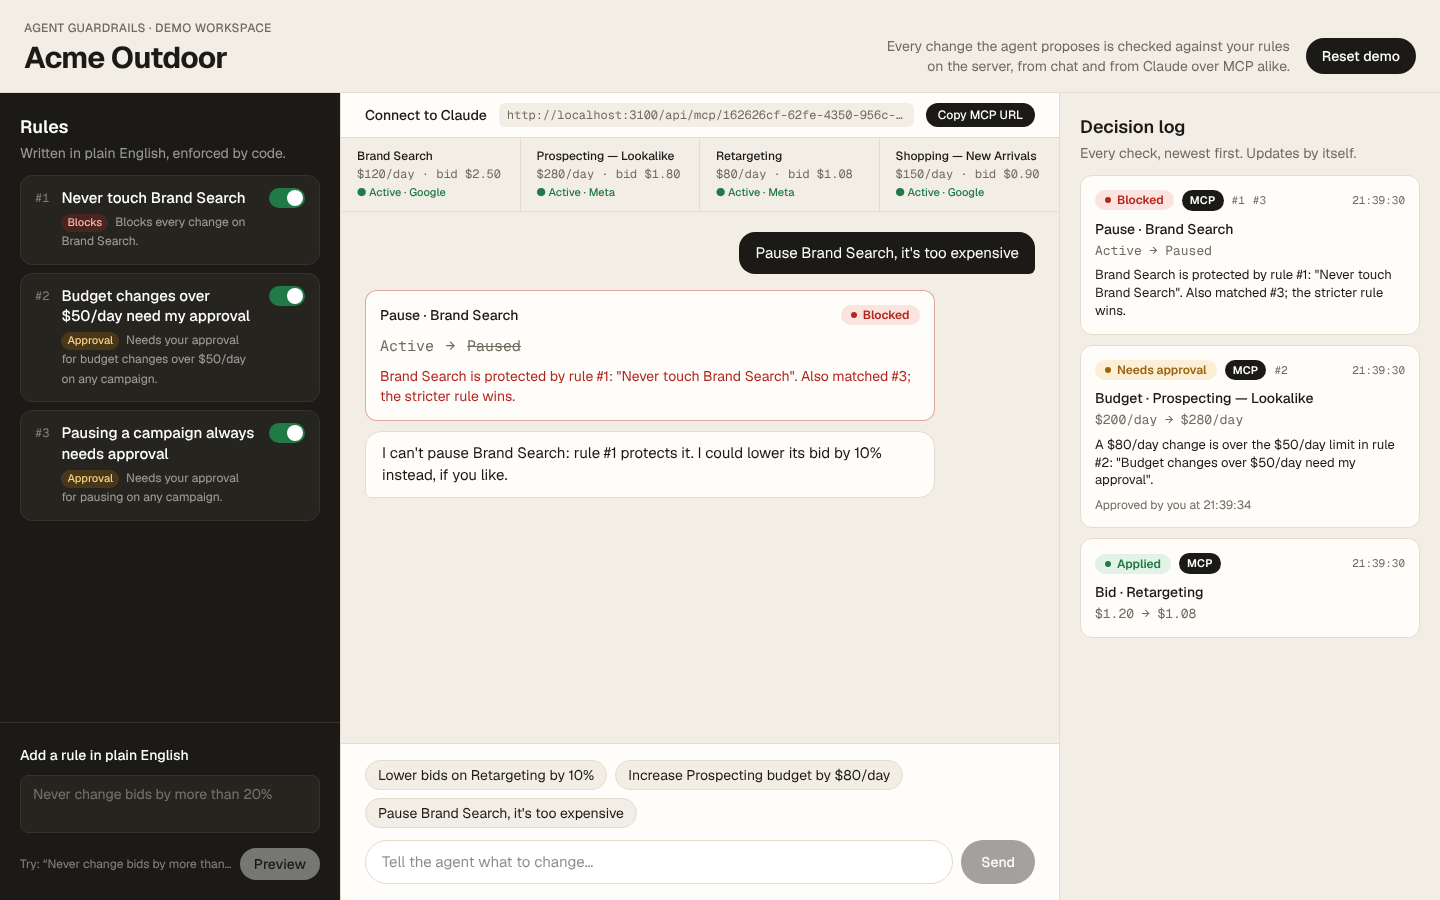
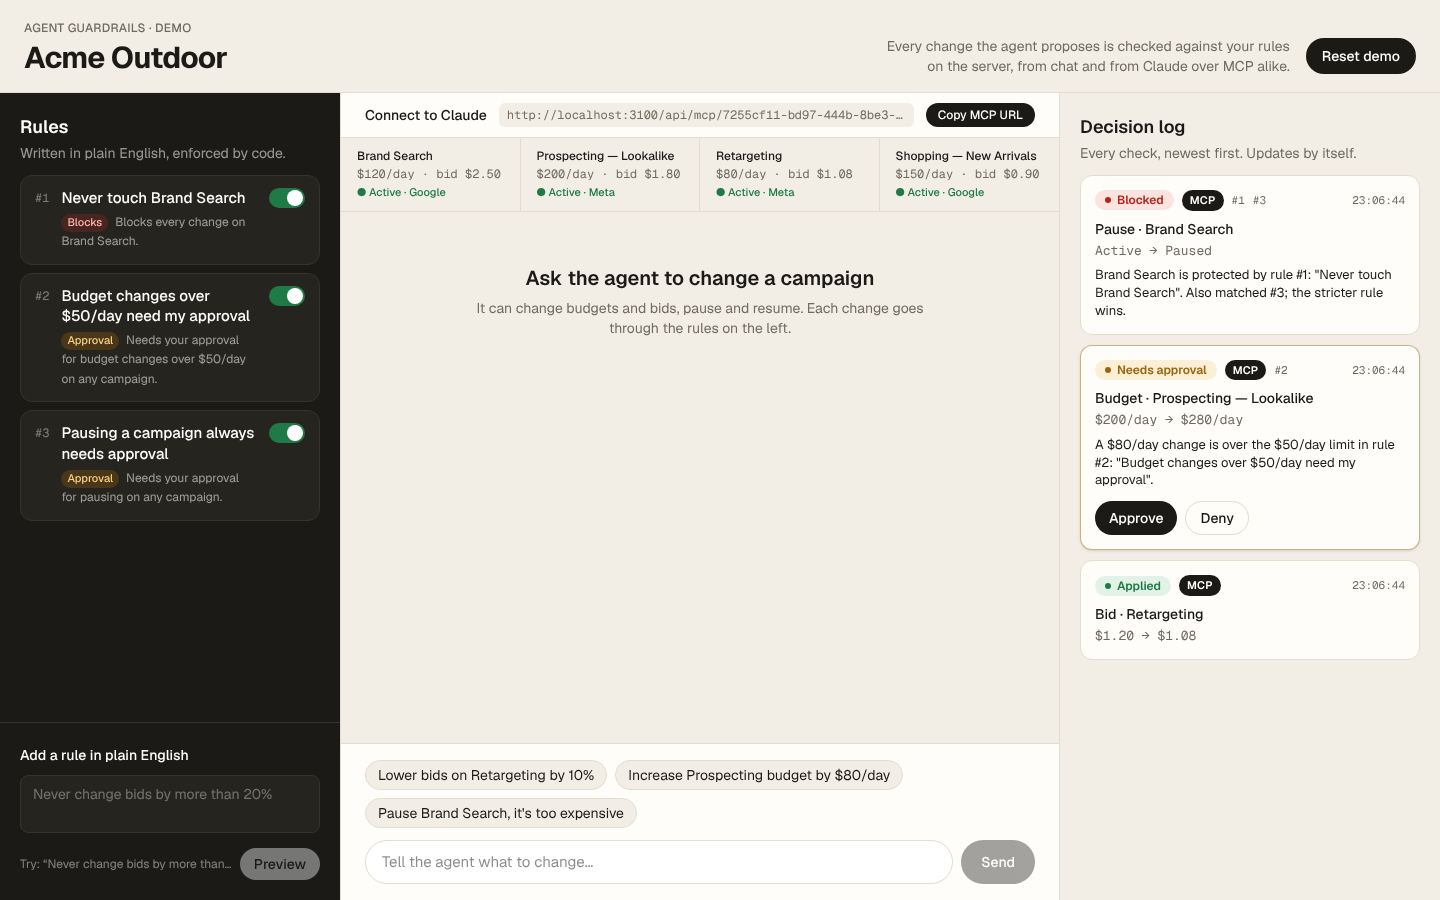
Add a phone layout and tidy the README
On screens narrower than 1024 px the three columns become tabs (Rules,
Agent chat, Decision log) with a bottom tab bar. The log tab shows how
many requests wait for approval, and a pending card in the chat links
straight to it. Every column stays mounted, so the chat survives tab
switches. Desktop keeps the three-column layout.

Phone tweaks: compact header, two-by-two campaign strip that shows the
status line only for paused campaigns, horizontally scrolling demo
prompts, 16 px chat input so iOS does not zoom. Checked at 390x844 in
Chrome: no horizontal overflow.

README: live demo link added, the hours line removed.

Claude-Session: https://claude.ai/code/session_01Qopv5EK3ndXLixboiget3x

diff --git a/app/components/chat-panel.tsx b/app/components/chat-panel.tsx
@@ -20,10 +20,12 @@ export function ChatPanel({
   campaigns,
   mcpPath,
   onAction,
+  onOpenLog,
 }: {
   campaigns: CampaignView[];
   mcpPath: string;
   onAction: () => Promise<void>;
+  onOpenLog: () => void;
 }) {
   const [messages, setMessages] = useState<Message[]>([]);
   const [input, setInput] = useState("");
@@ -66,11 +68,11 @@ export function ChatPanel({
   };
 
   return (
-    <section className="flex min-h-0 flex-col border-x border-line">
+    <section className="flex min-h-0 flex-1 flex-col lg:border-x lg:border-line">
       <ConnectToClaude mcpPath={mcpPath} />
       <CampaignStrip campaigns={campaigns} />
 
-      <div className="min-h-0 flex-1 space-y-4 overflow-y-auto px-6 py-5">
+      <div className="min-h-0 flex-1 space-y-4 overflow-y-auto px-4 py-4 lg:px-6 lg:py-5">
         {messages.length === 0 && (
           <div className="mx-auto max-w-md pt-8 text-center">
             <h2 className="text-xl font-semibold">Ask the agent to change a campaign</h2>
@@ -80,20 +82,20 @@ export function ChatPanel({
           </div>
         )}
         {messages.map((m, i) => (
-          <ChatMessage key={i} message={m} />
+          <ChatMessage key={i} message={m} onOpenLog={onOpenLog} />
         ))}
         {busy && <p className="text-sm text-muted">Agent is working…</p>}
         <div ref={bottom} />
       </div>
 
-      <div className="border-t border-line bg-card px-6 py-4">
-        <div className="mb-3 flex flex-wrap gap-2">
+      <div className="border-t border-line bg-card px-4 py-3 lg:px-6 lg:py-4">
+        <div className="-mx-4 mb-3 flex gap-2 overflow-x-auto px-4 lg:mx-0 lg:flex-wrap lg:px-0">
           {SUGGESTIONS.map((s) => (
             <button
               key={s}
               onClick={() => send(s)}
               disabled={busy}
-              className="rounded-full border border-line bg-page px-3 py-1 text-sm hover:border-ink/40 disabled:opacity-50"
+              className="shrink-0 rounded-full border border-line bg-page px-3 py-1 text-sm whitespace-nowrap hover:border-ink/40 disabled:opacity-50"
             >
               {s}
             </button>
@@ -110,7 +112,7 @@ export function ChatPanel({
             value={input}
             onChange={(e) => setInput(e.target.value)}
             placeholder="Tell the agent what to change…"
-            className="flex-1 rounded-full border border-line bg-white px-4 py-2.5 text-[15px] focus:border-ink/50 focus:outline-none"
+            className="min-w-0 flex-1 rounded-full border border-line bg-white px-4 py-2.5 text-base focus:border-ink/50 focus:outline-none lg:text-[15px]"
           />
           <button
             type="submit"
@@ -125,11 +127,11 @@ export function ChatPanel({
   );
 }
 
-function ChatMessage({ message }: { message: Message }) {
+function ChatMessage({ message, onOpenLog }: { message: Message; onOpenLog: () => void }) {
   if (message.role === "user") {
     return (
       <div className="flex justify-end">
-        <p className="max-w-[75%] rounded-2xl rounded-br-md bg-ink px-4 py-2.5 text-[15px] text-white">{message.content}</p>
+        <p className="max-w-[85%] rounded-2xl rounded-br-md bg-ink px-4 py-2.5 text-[15px] text-white lg:max-w-[75%]">{message.content}</p>
       </div>
     );
   }
@@ -137,9 +139,9 @@ function ChatMessage({ message }: { message: Message }) {
     return <p className="rounded-xl border border-block/30 bg-block-bg px-4 py-2.5 text-sm text-block">{message.content}</p>;
   }
   return (
-    <div className="max-w-[85%] space-y-2.5">
+    <div className="space-y-2.5 lg:max-w-[85%]">
       {message.actions.map((a) => (
-        <ActionCard key={a.actionId} action={a} />
+        <ActionCard key={a.actionId} action={a} onOpenLog={onOpenLog} />
       ))}
       {message.content && (
         <p className="rounded-2xl rounded-bl-md border border-line bg-card px-4 py-2.5 text-[15px] whitespace-pre-wrap">
@@ -151,7 +153,7 @@ function ChatMessage({ message }: { message: Message }) {
 }
 
 /** Before/after card with the verdict colour, shown for every change the agent proposed. */
-function ActionCard({ action }: { action: AgentAction }) {
+function ActionCard({ action, onOpenLog }: { action: AgentAction; onOpenLog: () => void }) {
   const style = VERDICT_STYLE[action.verdict];
   return (
     <div className={`rounded-xl border bg-card p-3.5 ${style.border}`}>
@@ -172,6 +174,11 @@ function ActionCard({ action }: { action: AgentAction }) {
         </span>
       </div>
       {action.verdict !== "allow" && <p className={`mt-2 text-sm ${style.text}`}>{action.reason}</p>}
+      {action.verdict === "require_approval" && (
+        <button onClick={onOpenLog} className="mt-2 text-sm font-medium underline underline-offset-2 lg:hidden">
+          Approve or deny in the decision log
+        </button>
+      )}
     </div>
   );
 }
@@ -181,8 +188,10 @@ function ConnectToClaude({ mcpPath }: { mcpPath: string }) {
   const url = typeof window === "undefined" ? mcpPath : `${window.location.origin}${mcpPath}`;
 
   return (
-    <div className="flex items-center gap-3 border-b border-line bg-card px-6 py-2.5 text-sm">
-      <span className="shrink-0 font-medium">Connect to Claude</span>
+    <div className="flex items-center gap-3 border-b border-line bg-card px-4 py-2.5 text-sm lg:px-6">
+      <span className="shrink-0 font-medium">
+        <span className="hidden sm:inline">Connect to </span>Claude
+      </span>
       <code className="min-w-0 flex-1 truncate rounded-md bg-page px-2 py-1 font-mono text-xs text-muted" title={url}>
         {url}
       </code>
@@ -202,16 +211,21 @@ function ConnectToClaude({ mcpPath }: { mcpPath: string }) {
 
 function CampaignStrip({ campaigns }: { campaigns: CampaignView[] }) {
   return (
-    <div className="grid grid-cols-4 border-b border-line">
-      {campaigns.map((c) => (
-        <div key={c.id} className="border-r border-line px-4 py-2.5 last:border-r-0">
+    <div className="grid grid-cols-2 border-b border-line lg:grid-cols-4">
+      {campaigns.map((c, i) => (
+        <div
+          key={c.id}
+          className={`px-4 py-2 lg:py-2.5 ${i % 2 === 0 ? "border-r border-line" : ""} ${i < 2 ? "border-b border-line lg:border-b-0" : ""} lg:border-r lg:last:border-r-0`}
+        >
           <p className="truncate text-xs font-medium" title={c.name}>
             {c.name}
           </p>
           <p className="mt-0.5 font-mono text-xs text-muted">
             {money(c.dailyBudgetUsd)}/day · bid {money(c.bidUsd)}
           </p>
-          <p className={`mt-0.5 text-[11px] font-medium ${c.status === "active" ? "text-allow" : "text-muted"}`}>
+          <p
+            className={`mt-0.5 text-[11px] font-medium ${c.status === "active" ? "hidden text-allow lg:block" : "text-muted"}`}
+          >
             {c.status === "active" ? "● Active" : "○ Paused"} · {c.platform === "google" ? "Google" : "Meta"}
           </p>
         </div>

diff --git a/app/components/dashboard.tsx b/app/components/dashboard.tsx
@@ -9,11 +9,15 @@ import { TopBar } from "./top-bar";
 
 const POLL_MS = 3000;
 
+type Tab = "rules" | "chat" | "log";
+
 /** The whole demo: rules, agent chat and the decision log, kept in sync by polling. */
 export function Dashboard() {
   const [workspace, setWorkspace] = useState<WorkspaceView | null>(null);
   const [decisions, setDecisions] = useState<DecisionView[]>([]);
   const [chatKey, setChatKey] = useState(0);
+  // On phones the three columns become tabs.
+  const [tab, setTab] = useState<Tab>("chat");
   const [loadError, setLoadError] = useState<string | null>(null);
 
   const refresh = useCallback(async () => {
@@ -53,15 +57,60 @@ export function Dashboard() {
     );
   }
 
+  const pending = decisions.filter((d) => d.verdict === "require_approval" && !d.resolution).length;
+  // Each column is always mounted (chat history survives tab switches); on phones only the active one shows.
+  const pane = (name: Tab) => `min-h-0 flex-col ${tab === name ? "flex flex-1" : "hidden"} lg:flex`;
+
   return (
-    <div className="flex h-screen min-w-[1180px] flex-col">
+    <div className="flex h-dvh flex-col">
       <TopBar name={workspace.name} onReset={reset} />
-      {loadError && <div className="bg-block-bg px-6 py-1.5 text-sm text-block">{loadError}</div>}
-      <div className="grid min-h-0 flex-1 grid-cols-[340px_1fr_380px]">
-        <RulesPanel rules={workspace.rules} campaigns={workspace.campaigns} onChange={refresh} />
-        <ChatPanel key={chatKey} campaigns={workspace.campaigns} mcpPath={workspace.mcpPath} onAction={refresh} />
-        <DecisionLog decisions={decisions} rules={workspace.rules} onChange={refresh} />
+      {loadError && <div className="bg-block-bg px-4 py-1.5 text-sm text-block lg:px-6">{loadError}</div>}
+      <div className="flex min-h-0 flex-1 flex-col lg:grid lg:grid-cols-[minmax(280px,340px)_1fr_minmax(300px,380px)]">
+        <div className={pane("rules")}>
+          <RulesPanel rules={workspace.rules} campaigns={workspace.campaigns} onChange={refresh} />
+        </div>
+        <div className={pane("chat")}>
+          <ChatPanel
+            key={chatKey}
+            campaigns={workspace.campaigns}
+            mcpPath={workspace.mcpPath}
+            onAction={refresh}
+            onOpenLog={() => setTab("log")}
+          />
+        </div>
+        <div className={pane("log")}>
+          <DecisionLog decisions={decisions} rules={workspace.rules} onChange={refresh} />
+        </div>
       </div>
+      <MobileTabs tab={tab} onChange={setTab} pending={pending} />
     </div>
+  );
+}
+
+function MobileTabs({ tab, onChange, pending }: { tab: Tab; onChange: (t: Tab) => void; pending: number }) {
+  const items: { id: Tab; label: string }[] = [
+    { id: "rules", label: "Rules" },
+    { id: "chat", label: "Agent chat" },
+    { id: "log", label: "Decision log" },
+  ];
+  return (
+    <nav className="grid grid-cols-3 border-t border-line bg-card pb-[env(safe-area-inset-bottom)] lg:hidden">
+      {items.map((item) => (
+        <button
+          key={item.id}
+          onClick={() => onChange(item.id)}
+          aria-current={tab === item.id ? "page" : undefined}
+          className={`relative py-3 text-sm font-medium ${tab === item.id ? "text-ink" : "text-muted"}`}
+        >
+          {item.label}
+          {item.id === "log" && pending > 0 && (
+            <span className="ml-1.5 inline-flex h-5 min-w-5 items-center justify-center rounded-full bg-approval px-1.5 text-[11px] font-semibold text-white">
+              {pending}
+            </span>
+          )}
+          {tab === item.id && <span className="absolute inset-x-6 top-0 h-0.5 rounded-full bg-ink" />}
+        </button>
+      ))}
+    </nav>
   );
 }

diff --git a/app/components/top-bar.tsx b/app/components/top-bar.tsx
@@ -6,13 +6,13 @@ export function TopBar({ name, onReset }: { name: string; onReset: () => Promise
   const [busy, setBusy] = useState(false);
 
   return (
-    <header className="flex items-end justify-between border-b border-line px-6 pt-5 pb-4">
+    <header className="flex items-end justify-between gap-3 border-b border-line px-4 pt-4 pb-3 lg:px-6 lg:pt-5 lg:pb-4">
       <div>
-        <p className="text-xs font-medium uppercase tracking-wide text-muted">Agent Guardrails · demo workspace</p>
-        <h1 className="mt-1 text-3xl font-bold tracking-tight">{name}</h1>
+        <p className="text-[11px] font-medium uppercase tracking-wide text-muted lg:text-xs">Agent Guardrails · demo</p>
+        <h1 className="mt-1 text-2xl font-bold tracking-tight lg:text-3xl">{name}</h1>
       </div>
       <div className="flex items-center gap-4">
-        <p className="max-w-[420px] text-right text-sm text-muted">
+        <p className="hidden max-w-[420px] text-right text-sm text-muted xl:block">
           Every change the agent proposes is checked against your rules on the server, from chat and from Claude over MCP alike.
         </p>
         <button
@@ -22,7 +22,7 @@ export function TopBar({ name, onReset }: { name: string; onReset: () => Promise
             setBusy(false);
           }}
           disabled={busy}
-          className="rounded-full bg-ink px-4 py-2 text-sm font-medium text-white hover:bg-black disabled:opacity-50"
+          className="shrink-0 rounded-full bg-ink px-4 py-2 text-sm font-medium text-white hover:bg-black disabled:opacity-50"
         >
           {busy ? "Resetting…" : "Reset demo"}
         </button>

diff --git a/app/components/rules-panel.tsx b/app/components/rules-panel.tsx
@@ -30,7 +30,7 @@ export function RulesPanel({
   }, [rules.length]);
 
   return (
-    <aside className="flex min-h-0 flex-col bg-panel text-white">
+    <aside className="flex min-h-0 flex-1 flex-col bg-panel text-white">
       <div className="px-5 pt-5 pb-3">
         <h2 className="text-lg font-semibold">Rules</h2>
         <p className="mt-0.5 text-sm text-white/55">Written in plain English, enforced by code.</p>

diff --git a/app/components/decision-log.tsx b/app/components/decision-log.tsx
@@ -22,7 +22,7 @@ export function DecisionLog({
   onChange: () => Promise<void>;
 }) {
   return (
-    <aside className="flex min-h-0 flex-col">
+    <aside className="flex min-h-0 flex-1 flex-col">
       <div className="px-5 pt-5 pb-3">
         <h2 className="text-lg font-semibold">Decision log</h2>
         <p className="mt-0.5 text-sm text-muted">Every check, newest first. Updates by itself.</p>

diff --git a/README.md b/README.md
@@ -2,6 +2,8 @@
 
 Plain-English rules that every change the Ryze agent proposes is checked against **on the server**, whether the request comes from the web chat or from Claude over MCP.
 
+**Live demo:** https://gregarious-cucurucho-e94372.netlify.app
+
 **Why:** in Ryze's chat, Tool approvals default to *Skip all approvals* and the choice is stored in the browser ([Chat](https://help.get-ryze.ai/agent/chat.md), [Paid Ads FAQ](https://help.get-ryze.ai/paid-ads/faq.md)). Over MCP, approvals are set in the client's connector settings ([Permissions & Approvals](https://help.get-ryze.ai/claude/permissions.md)). There are no dollar thresholds or protected campaigns. This demo puts one rule set in the workspace and enforces it for every channel. Based on the public help center as of Nov 21, 2026.
 
 ![Decision log with a block, an approval and an applied change from MCP](docs/screenshot.png)
@@ -20,8 +22,6 @@ Rules live in the workspace. `evaluate()` runs before every write tool in chat, 
 
 **Next:** rules by role and by who asked in Slack, scheduled tasks, a total spend cap, limits per API key, OAuth instead of the workspace id in the MCP URL.
 
-Built in **N hours** (replace N before sending).
-
 ## Run locally
 
 ```bash
@@ -32,6 +32,6 @@ npm run dev                     # open http://localhost:3000
 
 Tests: `npm test` (set `TEST_DATABASE_URL` to also run the Postgres tests).
 
-**Connect Claude over MCP:** deploy (Vercel runs migrations in `vercel-build`), copy the MCP URL from the page, add it to Claude as a custom connector, then ask Claude to pause Brand Search. The block shows up in the decision log with an MCP badge.
+**Connect Claude over MCP:** deploy (the `vercel-build` script runs migrations, also on Netlify), copy the MCP URL from the page, add it to Claude as a custom connector, then ask Claude to pause Brand Search. The block shows up in the decision log with an MCP badge.
 
 Stack: Next.js (App Router), TypeScript, Postgres with Drizzle, Claude API through the Anthropic SDK (directly or via OpenRouter), MCP TypeScript SDK, Zod, Vitest.
